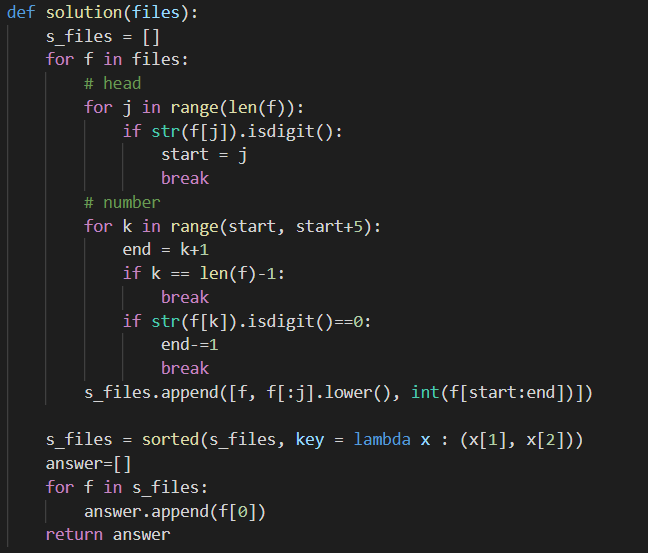
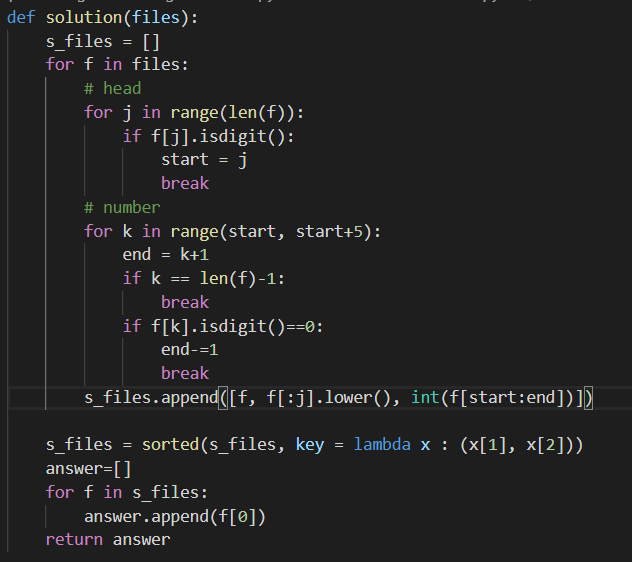
.

diff --git a/pyCode/22-1 단속카메라.py b/pyCode/22-1 단속카메라.py
@@ -1,20 +1,29 @@
 def solution(routes):
-    routes = sorted(routes, key= lambda x : (x[0]))
-    print(routes)
-    ex_left = routes[0][0]
+    routes = sorted(routes, key= lambda x : x[0])
+    # 가장 첫번째(왼이 가장 작은) 경로의 오른쪽값 저장
     ex_right = routes[0][1]
-    camera =  0
+    # 시작 카메라는 한대.
+    camera = 1
     for L, R in routes:
-        if ex_left <= L:
-            ex_left = L
-            if ex_right >= R:
-                camera +=1
-            if 
+        # 1. 완전 겹쳐진 경우
+        if R <= ex_right:
+            ex_right = R
+        # 2. 한쪽이 겹칠 경우
+        if L <= ex_right < R:
+            pass
+        # 3. 아예 안겹칠 경우
+        if ex_right < L :
+            ex_right = R
+            camera+=1
+    return camera
 
 
-    print(routes)
-    return 
 
+print(solution([[-2,-1], [1,2],[-3,0]])) #2
+print(solution([[0,0],])) #1
+print(solution([[0,1], [0,1], [1,2]])) #1
+print(solution([[0,1], [2,3], [4,5], [6,7]])) #4
+print(solution([[-20,-15], [-14,-5], [-18,-13], [-5,-3]])) #2
+print(solution([[-20,15], [-14,-5], [-18,-13], [-5,-3]])) #2
+print(solution([[-20,15], [-20,-15], [-14,-5], [-18,-13], [-5,-3]])) #2
 
-routes = [[-20,15], [-14,-5], [-18,-13], [-5,-3], [20,30]]
-print(solution(routes))

diff --git a/pyCode/22-2 파일명정렬.py b/pyCode/22-2 파일명정렬.py
@@ -4,7 +4,7 @@ def solution(files):
         # head
         for j in range(len(f)):
             # 처음으로 숫자가 등장할 경우
-            if str(f[j]).isdigit():
+            if f[j].isdigit():
                 # 첫 숫자 등장한 인덱스를 저장
                 start = j
                 break
@@ -15,7 +15,7 @@ def solution(files):
             if k == len(f)-1:
                 break
             # number 영역에서 첫 문자가 등장햇을 때 인덱스를 저장
-            if str(f[k]).isdigit()==0:
+            if f[k].isdigit()==0:
                 end-=1
                 break
 

diff --git a/review/22-1 탐욕법(3)_단속카메라.md b/review/22-1 탐욕법(3)_단속카메라.md
@@ -1,0 +1,43 @@
+# 파일명 정렬
+
+### https://programmers.co.kr/learn/courses/30/lessons/42884
+
+<hr>
+
+## 문제 풀이
+
+<br>
+
+> ### 아이디어
+1. 가장 왼쪽에서 오는 경로부터 탐색하기 위해 routes를 왼쪽을 기준으로 정렬합니다.
+2. 그리고 첫 번째 경로의 오른쪽 좌표를 저장하고 해당 경로에 카메라를 배치합니다.
+3. 경로들은 세 가지 관계를 갖습니다. (완전 겹쳐진 경우, 한쪽만 겹쳐진 경우, 아예 안 겹치는 경우)
+4. 왼쪽 좌표 기준으로 정렬했기 때문에 오른쪽 좌표를 기준으로 경로들을 비교합니다.
+5. 완전 겹쳐진 경우에는 카메라가 이미 있기 때문에 카메라는 추가하지 않고 오른쪽 좌표만 바꿔줍니다. 
+6. 한 쪽만 겹쳐진 경우에는 해당 경로가 없다고 가정하고 넘어갑니다.
+7. 아예 겹쳐지지 않는 경우에는 카메라를 추가하고 오른쪽 좌표도 바꿔줍니다.
+8. 좌표를 그려보고 경로들의 관계를 파악하여 풀어야하는 문제였습니다.
+
+<br>
+
+> ### 정답 코드
+```python
+def solution(routes):
+    routes = sorted(routes, key= lambda x : x[0])
+    ex_right = routes[0][1]
+    camera = 1
+
+    for L, R in routes:
+        if R <= ex_right:
+            ex_right = R
+        if L <= ex_right < R:
+            pass
+        if ex_right < L :
+            ex_right = R
+            camera+=1
+
+    return camera
+```
+
+> ### 코드 설명
+<h4><a href="../pyCode/22-1 단속카메라.py">이곳을 누르면 설명이 추가된 코드로 이동합니다.</a></h4>
